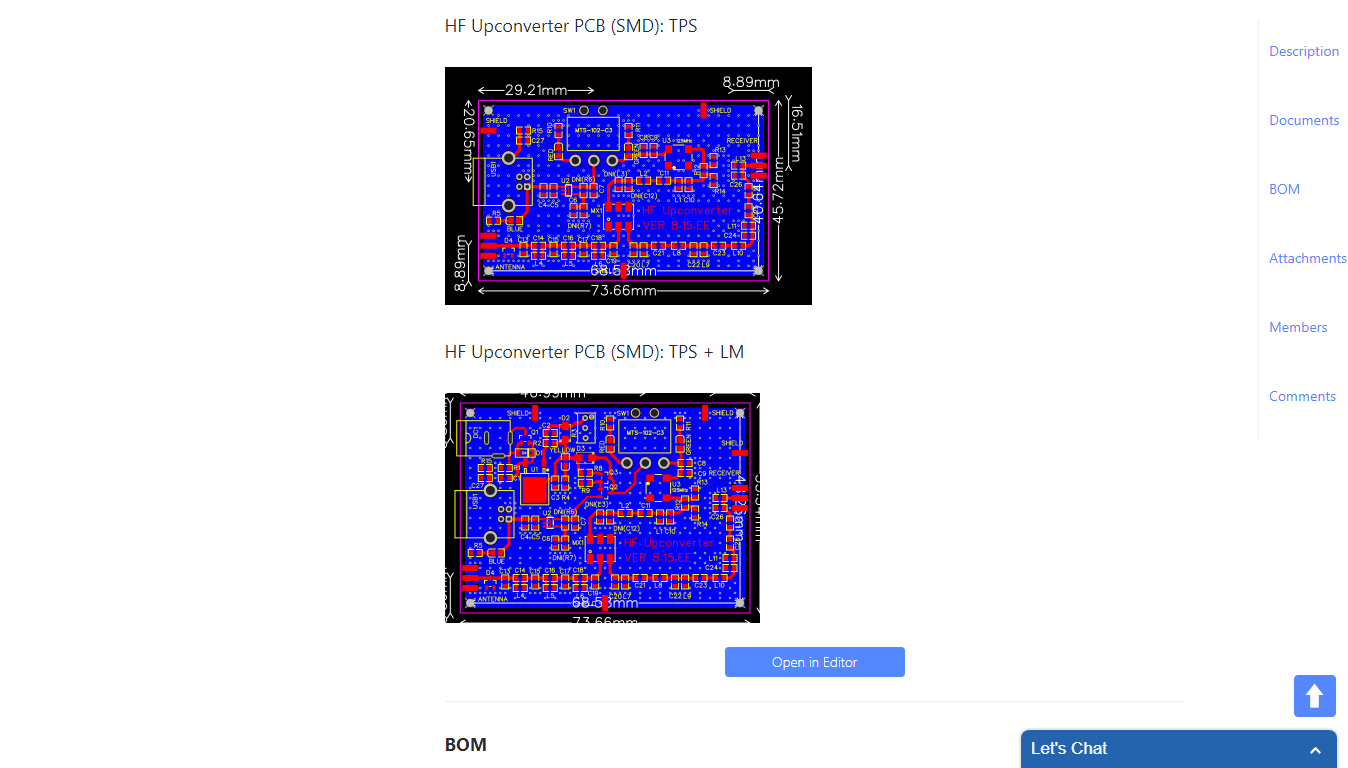
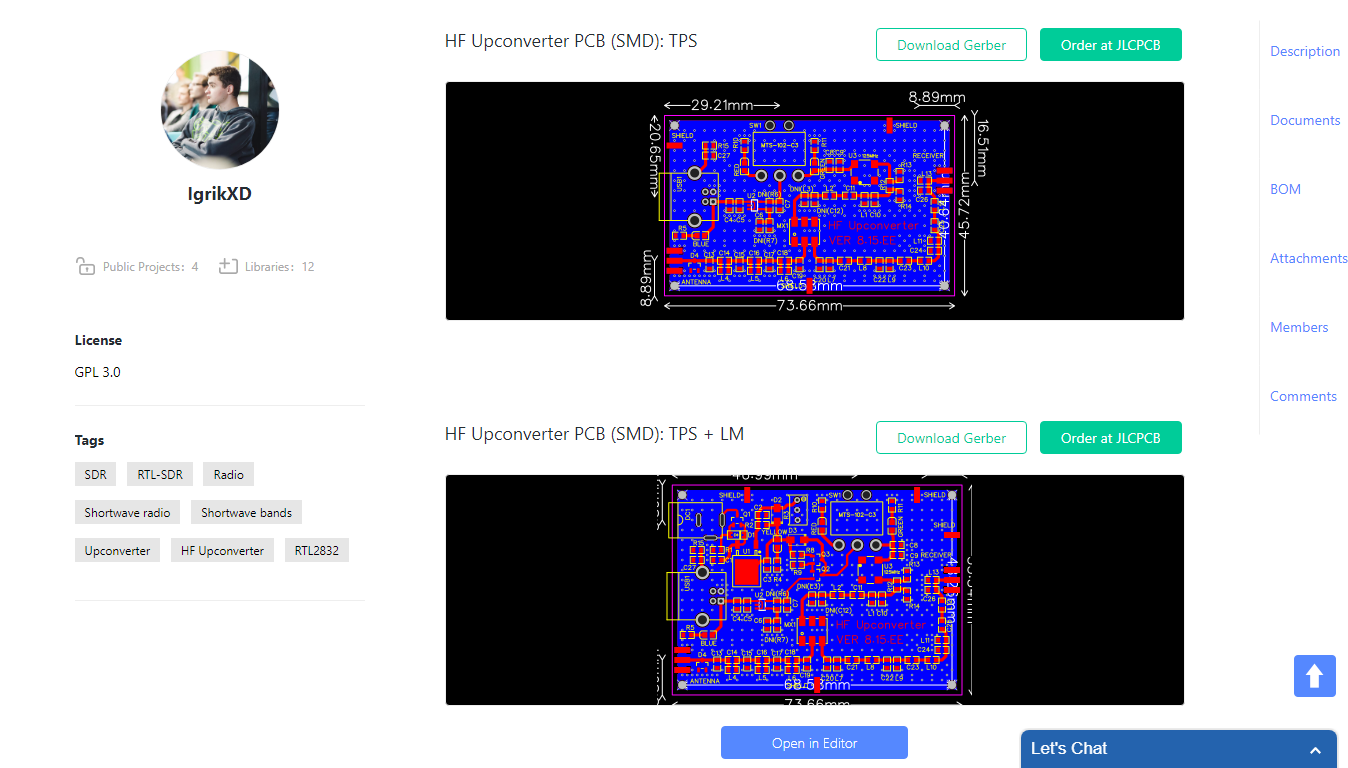
Fix articles info to new EasyEDA platform version.

diff --git a/Useful info/How to export Gerber file from EasyEDA.md b/Useful info/How to export Gerber file from EasyEDA.md
@@ -1,7 +1,7 @@
 # How to export Gerber file from EasyEDA
 
 ## Why should I export these files?
-The answer is simple - if you want to order production of PCBs on a platform other than [EasyEDA]/[JLCPCB], you need to export the files (Gerber) necessary for the production of your printed circuit board. After exporting the files, you will need to upload the received files to the PCB manufacturing service.  
+The answer is simple - if you want to order production of PCBs on a platform other than [JLCPCB], you need to export the files (Gerber) necessary for the production of your printed circuit board. After exporting the files, you will need to upload the received files to the PCB manufacturing service.  
 Also, you can find ready Gerber files for a specific module in the directory:  
 **Easy-SDR repository / Module name / Component group / EasyEDA / Gerbers**.
 
@@ -24,10 +24,10 @@ Also, you can find ready Gerber files for a specific module in the directory:
 First, go to the page of the module you are interested in on the EasyEDA website.  
 ![Module page](../Resources/EasyEDA%20Gerber%20export/EasyEDA-1-Module-page.png)  
 
-Click the "Documents" button and drop below the "Open in Editor" button.  
+Select the Documents section and move to the block with PCBs. If you do not want to edit the PCB before exporting the Gerber file, then you can immediately press the "Download Gerber" button or "Order at JLCPCB" (in that case you will be redirected to JLCPCB service). After that the Gerber file will be automatically downloaded. In the case if you need to make an adjustment to an existing revision of the board - click the "Open in Editor" button.  
 ![Open editor](../Resources/EasyEDA%20Gerber%20export/EasyEDA-2-Open-editor.png)  
 
-Click this button, whereby you will be taken to the EasyEDA editor where you can pre-edit the layout of the PCB before exporting.  
+Click "Open in Editor" button, whereby you will be taken to the EasyEDA editor where you can pre-edit the layout of the PCB before exporting.  
 ![Editor](../Resources/EasyEDA%20Gerber%20export/EasyEDA-3-Editor.png)  
 
 After all the necessary corrections we can make exporting the Gerber file. To do this, you need to on the right, in the top panel of the editor, click the "Generate Gerber" button.  

diff --git a/Useful info/How to make a PCB (Toner transfer method).md b/Useful info/How to make a PCB (Toner transfer method).md
@@ -15,10 +15,18 @@ To manufacture a PCB you will need:
 - Hydrogen peroxide, 3% solution, 100 ml.  
 - Citric acid, 30 g.  
 - Table salt, 5 g.  
-- Drill machine for drilling holes  
-- Drills, diameter 0.6 mm. and 1 mm.  
+- Drill machine for drilling holes (in case of using TH components)  
+- Drills, diameter 0.6 mm. and 1 mm. (in case of using TH components)  
 - Liquid tin (optional)  
 - Flux  
 - Solder  
 
+The manufacture of a PCB by **toner transfer method is based on the preliminary preparation of the template of the PCB and subsequent printing on photographic paper using a laser printer**. Next, the resulting image of the PCB is transferred to the copper clad board by heating. After that, the top part of the photo paper is removed, and the toner remains on the copper clad board. After that, etching and subsequent processing of the finished PCB is carried out.  
+**This method is excellent for projects where there is no need for a low thickness of tracks, as well as for projects where there is no need to manufacture a large number of printed circuit boards (1-2 pieces)**. However, when using this method, there may be difficulties with the quality transfer of toner on the cooper clad board. In addition, this method is the cheapest if you have a laser printer at home.  
+If you need to perform very tight placing of components or use a low thickness of the tracks, it is better to choose the photoresist method.  
+
+As an example for the production of a PCB by toner transfer method, we will use the [Antenna Mini-Whip (TH)] module.
+
 ## Template preparation
+
+[Antenna Mini-Whip (TH)]: <https://easyeda.com/igor.nikolaevich.96/Antenna_Mini_Whip-d8935f151d3a4221a9a3aacae3acdb65>

diff --git a/HF Upconverter/TH/Assembly guide.md b/HF Upconverter/TH/Assembly guide.md
@@ -31,6 +31,6 @@ If you use HF Upconverter, you will lose the ability to use software selectable 
 Also, because of using of a 125 MHz value crystal oscillator, the frequency will be shifted to 125 MHz up (the frequency shift of our received radio station will look like this: 4.625 MHz + 125 MHz = 129.625 MHz). For convenience, you will need to set the value of the backward bias of -125 MHz in the receiving program (Gqrx, SDRSharp, etc.), but this action is not mandatory.
 
 ## Power supply recommendations
-When powering the HF Upconverter, do not use power banks or other power supplies with impulse converters. These devices create a sufficiently large amount of interference, which can adversely affect the reception quality. When working from a laptop it is possible to use power from a free USB connector, or use a battery with a voltage of 5 V (or 7 - 20 V, LM317 version). In addition, a good solution will be the use of ferrite filters on power cables.
+When powering the HF Upconverter, **do not use power banks or other power supplies with impulse converters**. These devices create a sufficiently large amount of interference, which can adversely affect the reception quality. When working from a laptop it is possible to use power from a free USB connector, or use a battery with a voltage of 5 V (or 7 - 20 V, LM317 version). In addition, a good solution will be the use of ferrite filters on power cables.
 
 [Making a Simple Air Core Inductor (Induction Coil): 5 Steps]: <http://www.instructables.com/id/Making-a-Simple-Induction-Coil/>
